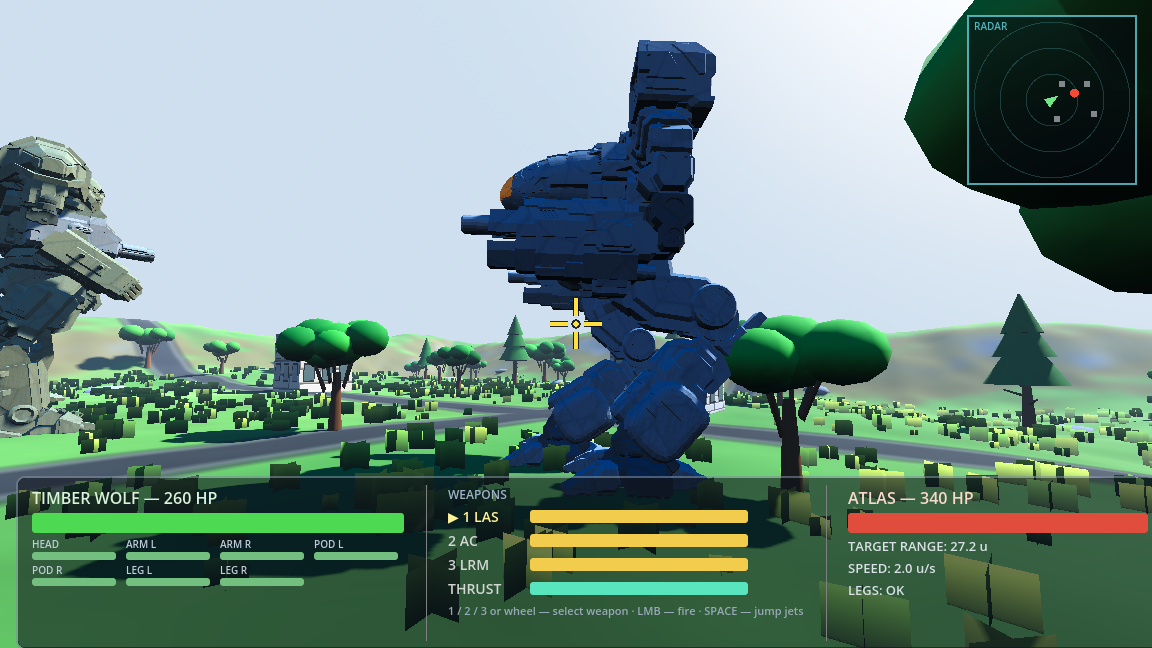
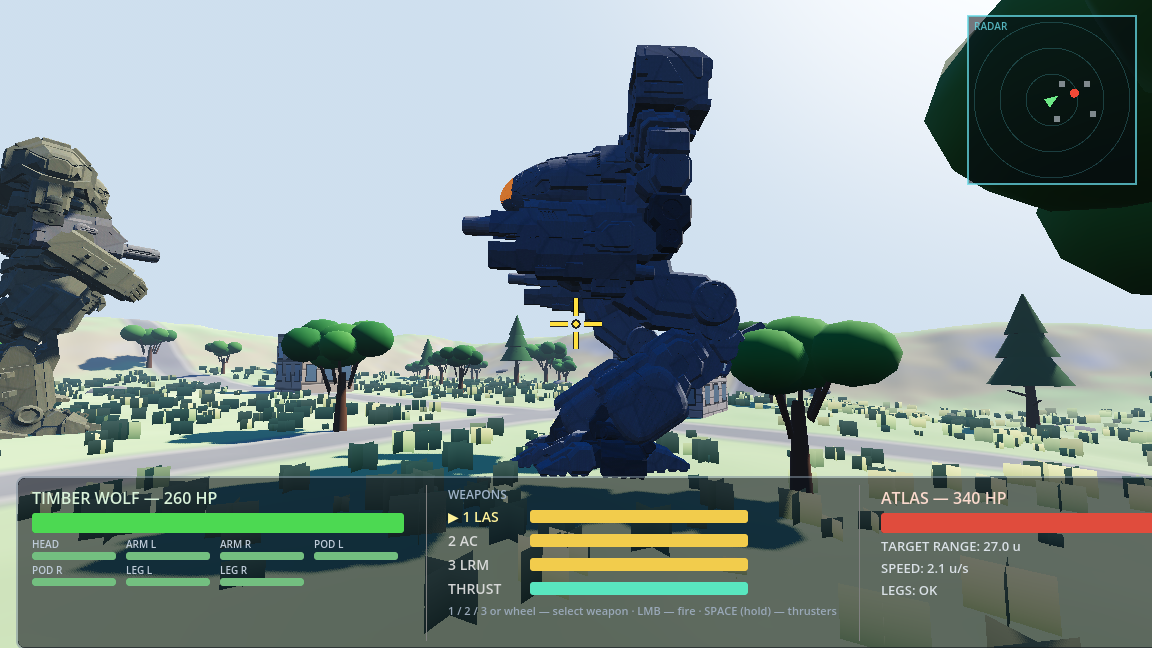
duel: SPACE hold flies, W pushes forward, FLYTEST (owner)
Live input feeds SetThrust every frame; while burning with W held the drive gains +3 u/s (burn-end speed measures exactly 7.2 vs 4.2 walk). Hints updated (panel + lab). Terrain case 4 rewritten as FLYTEST: unfitted Atlas cannot lift, full burn apex 24.0u with the flyover no-push check, empty tanks descend, a 45% charge tops out at 11.5u, ground recharge refills. All four suites green.

diff --git a/godot/MechDuel.cs b/godot/MechDuel.cs
@@ -244,6 +244,9 @@ public partial class MechDuel : Node3D
     private int _tJumpStage;
     private float _tJumpMarkT;
     private Vector2 _tJumpXZ;
+    private float _tApex2, _tBurnDist, _tBurnSpeed;
+    private Vector2 _tFlyStart;
+    private bool _tParked;
 
     private Crosshair _cross;
     private ProgressBar _barPlayer, _barEnemy, _cdBarLaser, _cdBarAc, _cdBarLrm, _cdBarThr;
@@ -1107,7 +1110,7 @@ public partial class MechDuel : Node3D
             Input.IsPhysicalKeyPressed(Key.W), Input.IsPhysicalKeyPressed(Key.S),
             Input.IsPhysicalKeyPressed(Key.A), Input.IsPhysicalKeyPressed(Key.D),
             Input.IsPhysicalKeyPressed(Key.Shift));
-        if (Input.IsPhysicalKeyPressed(Key.Space)) _player.TryJump(); // jump jets (fitted mechs only)
+        _player.SetThrust(Input.IsPhysicalKeyPressed(Key.Space)); // thrusters: hold SPACE to fly (fitted mechs only)
     }
 
     // The player's drive, with the keys passed in so the duel harness
@@ -1127,6 +1130,7 @@ public partial class MechDuel : Node3D
         _running = shift && w;
         float spd = 0f;
         if (w) spd = PlayerMaxSpeed * (_running ? RunFactor : 1f);
+        if (w && _player.Thrusting) spd += 3.0f; // jets burning + forward key: the thrusters push the mech forward too (owner)
         else if (s) spd = -PlayerMaxSpeed * 0.55f;
         _player.SetDrive(_playerYaw, spd);
     }
@@ -2162,7 +2166,7 @@ public partial class MechDuel : Node3D
         var rowThr = CdRow("THRUST");
         _lblThr = rowThr.Item1; _cdBarThr = rowThr.Item2;
         var hint = MakeLabel(11, new Color(0.6f, 0.66f, 0.72f));
-        hint.Text = "1 / 2 / 3 or wheel — select weapon · LMB — fire · SPACE — jump jets";
+        hint.Text = "1 / 2 / 3 or wheel — select weapon · LMB — fire · SPACE (hold) — thrusters";
         midBox.AddChild(hint);
         _lblWeaponStatus = MakeLabel(12, new Color(1f, 0.42f, 0.32f));
         midBox.AddChild(_lblWeaponStatus);
@@ -4203,66 +4207,101 @@ public partial class MechDuel : Node3D
                     if (avg < 6.4f) { TFail($"run steady speed {avg:F2} < 6.4"); return; }
                     if (_player.MaxPlantedDiff() > 0.08f) { TFail($"run planted diff {_player.MaxPlantedDiff():F3} > 0.08"); return; }
                     GD.Print("RUNTEST PASS run-mode speed reached, gait contact holds");
-                    // JUMP setup: flat spawn, jets fitted on the player.
+                    // FLY setup: flat spawn, jets fitted, tanks full.
                     _player.Teleport(new Vector3(0f, Main.HeightAt(0f, 34f), 34f), 0f);
                     _player.JumpJets = true;
-                    _tJumpApex = 0f; _tJumpTried = false;
+                    _player.JumpCharge = 1f;
+                    _playerYaw = 0f;
+                    _tJumpApex = 0f; _tApex2 = 0f; _tJumpTried = false; _tJumpStage = 0; _tParked = false;
                     _tPhase = 4; _tPhaseT = 0;
                 }
                 break;
-            case 4: // JUMP: full-charge jets clear an enemy; charge refills in ~5s.
-                _player.SetDrive(0f, 0f);
+            case 4: // FLY: hold-to-thrust — burn, flyover, descent, partial burn, recharge.
+                if (_tJumpStage == 1) ApplyPlayerInput(0.016f, true, false, false, false, false); // W held: drive + jet push
+                else _player.SetDrive(0f, 0f);
                 _enemy.SetDrive(_enemy.LegsYaw, 0f);
-                if (_tJumpTried)
+                if (_tJumpStage >= 1 && _tJumpStage <= 2)
                 {
                     float hgtNow = _player.RootPos.Y - _tJumpGround;
                     if (hgtNow > _tJumpApex) _tJumpApex = hgtNow;
                 }
+                if (_tJumpStage == 4)
+                {
+                    float hgtNow = _player.RootPos.Y - _tJumpGround;
+                    if (hgtNow > _tApex2) _tApex2 = hgtNow;
+                }
+                if (_tPhaseT > 26.0) { TFail($"FLYTEST timeout in stage {_tJumpStage} (charge {_player.JumpCharge:F2}, h {_player.JumpHeight:F1})"); return; }
                 switch (_tJumpStage)
                 {
-                    case 0: // settle, then jump on a full charge
+                    case 0: // settle; the unfitted Atlas must not lift even with thrust commanded
+                        _enemy.SetThrust(true);
                         if (_tPhaseT > 0.6)
                         {
+                            if (_enemy.JumpHeight > 0.05f) { TFail("Atlas lifted without jets"); return; }
+                            _enemy.SetThrust(false);
                             _tJumpGround = _player.RootPos.Y;
-                            if (_enemy.TryJump()) { TFail("Atlas jumped without jets"); return; }
-                            if (!_player.TryJump()) { TFail("fitted player refused to jump on a full charge"); return; }
-                            if (_player.JumpCharge > 0.01f) { TFail("jump did not spend the thruster charge"); return; }
-                            if (_player.TryJump()) { TFail("second jump fired on a spent charge"); return; }
-                            _tJumpTried = true; _tJumpStage = 1;
+                            _tFlyStart = new Vector2(_player.RootPos.X, _player.RootPos.Z);
+                            _player.SetThrust(true);
+                            _tJumpStage = 1;
                         }
                         break;
-                    case 1: // at flyover height, park the Atlas underneath: no push allowed
-                        if (_player.JumpHeight > 12f)
+                    case 1: // full burn, W held — climb past enemy height while the jets push forward
+                        if (!_tParked && _player.JumpHeight > 12f)
                         {
                             _tJumpXZ = new Vector2(_player.RootPos.X, _player.RootPos.Z);
                             _enemy.Teleport(new Vector3(_tJumpXZ.X, Main.HeightAt(_tJumpXZ.X, _tJumpXZ.Y), _tJumpXZ.Y), 0f);
-                            _tJumpMarkT = (float)_tPhaseT; _tJumpStage = 2;
+                            _tJumpMarkT = (float)_tPhaseT; _tParked = true;
                         }
-                        else if (_tPhaseT > 3.0) { TFail($"jump never reached flyover height (apex so far {_tJumpApex:F1})"); return; }
-                        break;
-                    case 2: // hold under the falling mech briefly, then clear the landing zone
-                        if (_tPhaseT > _tJumpMarkT + 0.3)
+                        if (_tParked && _tPhaseT > _tJumpMarkT + 0.3 && _enemy.RootPos.X > -50f)
                         {
                             var nowXZ = new Vector2(_player.RootPos.X, _player.RootPos.Z);
-                            if (nowXZ.DistanceTo(_tJumpXZ) > 0.05f) { TFail("flyover pushed the jumping mech sideways"); return; }
+                            // forward flight moves the mech; the flyover check is LATERAL push only
+                            if (Mathf.Abs(nowXZ.X - _tJumpXZ.X) > 0.05f) { TFail("flyover pushed the flying mech sideways"); return; }
                             _enemy.Teleport(new Vector3(60f, Main.HeightAt(60f, 60f), 60f), 0f);
+                        }
+                        if (_player.JumpCharge <= 0f)
+                        {
+                            _tBurnDist = new Vector2(_player.RootPos.X - _tFlyStart.X, _player.RootPos.Z - _tFlyStart.Y).Length();
+                            _tBurnSpeed = _player.Speed;
+                            _player.SetThrust(false);
+                            _tJumpStage = 2;
+                        }
+                        break;
+                    case 2: // tanks empty: gravity takes it back down
+                        if (_player.JumpHeight <= 0f && _tPhaseT > 3.4)
+                        {
+                            GD.Print($"FLYTEST burn apex={_tJumpApex:F1} burnDist={_tBurnDist:F1} burnEndSpeed={_tBurnSpeed:F1}");
+                            if (_tJumpApex < 14f) { TFail($"full-burn apex {_tJumpApex:F1} < 14 - cannot clear an enemy"); return; }
+                            // The push is judged on SPEED at burn end:
+                            // walk alone caps at 4.2; jets+W must read
+                            // ~7.2 (the accel ramp eats the distance
+                            // signal: 9.1u with push vs ~7.1 without).
+                            if (_tBurnSpeed < 6.5f) { TFail($"burn-end speed {_tBurnSpeed:F1} < 6.5 - thrusters did not push the mech forward"); return; }
+                            if (_tBurnDist < 8.5f) { TFail($"burn travel {_tBurnDist:F1} < 8.5"); return; }
                             _tJumpStage = 3;
                         }
                         break;
-                    case 3: // landed + recharged -> the next jump must be available again
-                        if (_player.JumpHeight <= 0f && _player.JumpCharge >= 0.999f)
+                    case 3: // partial recharge -> a shorter, lower flight
+                        if (_player.JumpCharge >= 0.45f) { _player.SetThrust(true); _tJumpStage = 4; }
+                        break;
+                    case 4: // partial burn spent -> descend and land
+                        if (_tApex2 > 0.5f && _player.JumpHeight <= 0f)
                         {
-                            float settle = Mathf.Abs(_player.RootPos.Y - _tJumpGround);
-                            GD.Print($"JUMPTEST apex={_tJumpApex:F2} settle={settle:F3} doneT={_tPhaseT:F1}");
-                            if (_tJumpApex < 14f) { TFail($"jump apex {_tJumpApex:F2} < 14 - feet would not clear a 14u mech"); return; }
-                            if (settle > 0.2f) { TFail($"mech did not land (settle {settle:F3})"); return; }
-                            if (!_player.TryJump()) { TFail("recharged thrusters refused the next jump"); return; }
-                            GD.Print("JUMPTEST PASS full-charge jump clears enemy height, flyover has no collision push, charge auto-refills and jumps again");
+                            _player.SetThrust(false);
+                            GD.Print($"FLYTEST partial apex={_tApex2:F1} (full {_tJumpApex:F1})");
+                            if (_tApex2 < 3f) { TFail($"partial-charge flight too low ({_tApex2:F1})"); return; }
+                            if (_tApex2 > _tJumpApex - 4f) { TFail($"partial flight ({_tApex2:F1}) not lower than full ({_tJumpApex:F1})"); return; }
+                            _tJumpStage = 5;
+                        }
+                        break;
+                    case 5: // full recharge on the ground completes the contract
+                        if (_player.JumpCharge >= 0.999f)
+                        {
+                            GD.Print("FLYTEST PASS hold-to-fly: full burn clears enemy height with forward push and no flyover shove, empty tanks descend, partial charge flies lower, ground recharge refills");
                             GD.Print("TERRAINTEST DONE");
                             GetTree().Quit(0);
                             _tPhase = 99;
                         }
-                        else if (_tPhaseT > 10.0) { TFail($"no landing/recharge by {_tPhaseT:F1}s (charge {_player.JumpCharge:F2})"); return; }
                         break;
                 }
                 break;
@@ -4457,6 +4496,7 @@ public partial class MechDuel : Node3D
 
     public override void _Process(double delta)
     {
+
         if (_player == null || !_player.IsReady || _enemy == null || !_enemy.IsReady) return;
         float dt = (float)delta;
 
